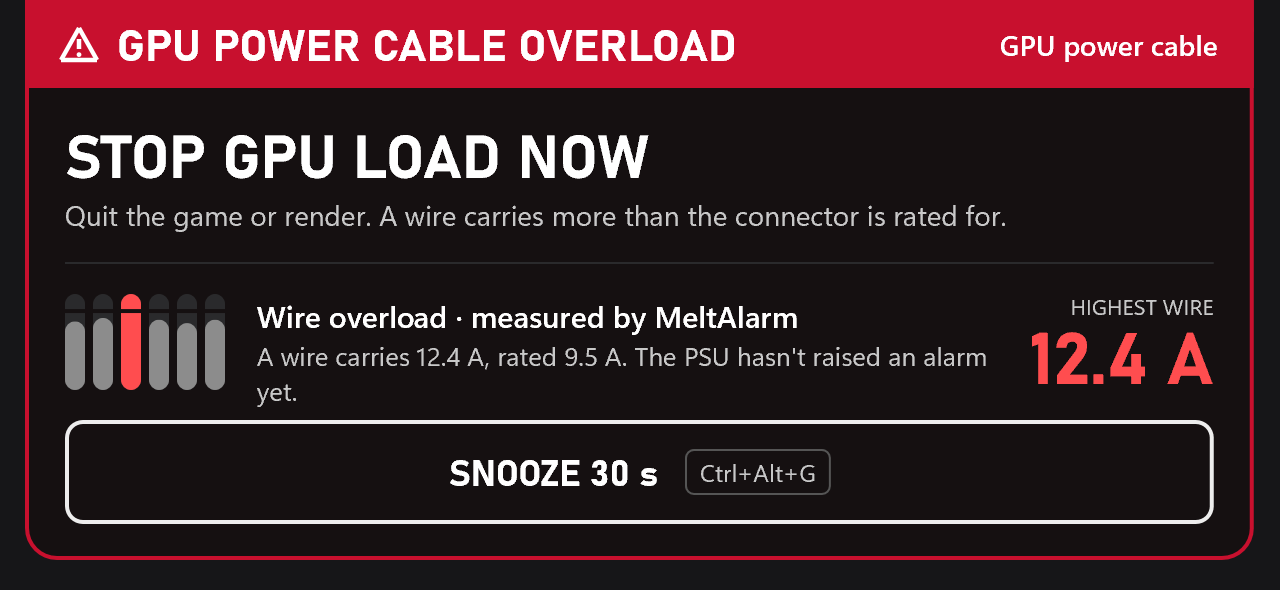
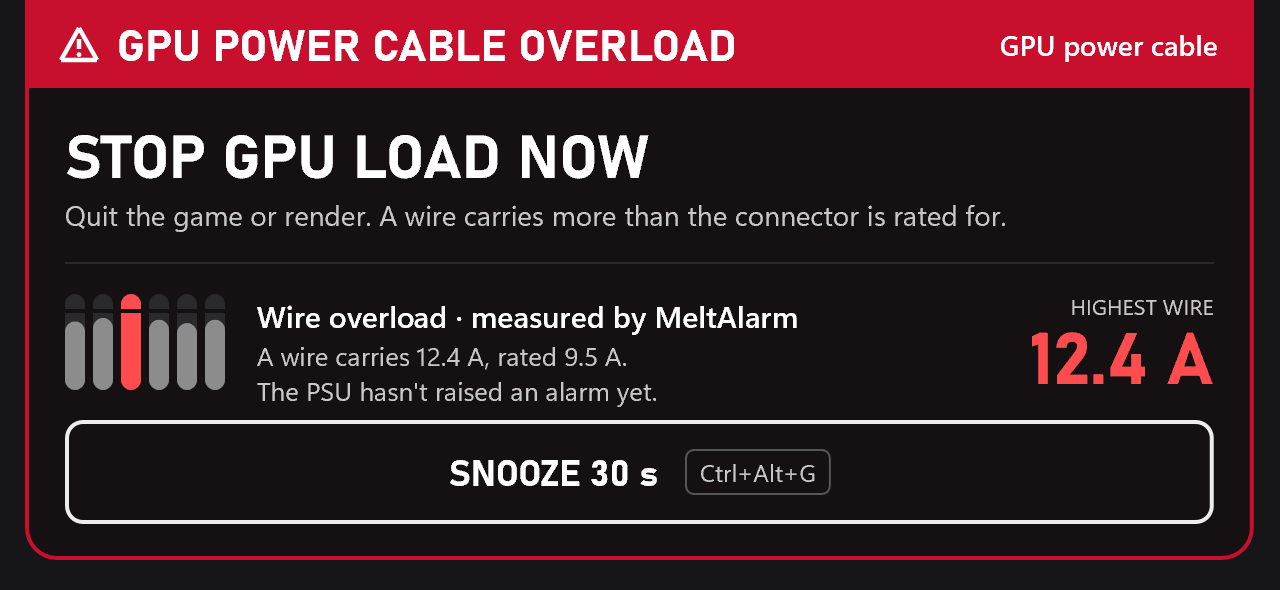
Notch: one fact per line, no orphan words (0.3.6)
"The PSU hasn't raised an alarm yet." wrapped its last word onto a line
of its own. Rewording only moves an orphan to another notch width, so
the numbers now take at most two lines, one fact per line, composed by
core (both judges: the PSU's limit line, then ours).

The critical variant clipped its what-line: "ANY SECOND" at 36 pt took
the text column's room. The right block is now capped at 140 DIP (a word
value shrinks to fit) and the critical what-line only says who reports
it; the band already names the status. Checked on screen (overload, PSU
imbalance, critical) and by arithmetic for the narrowest notch.

The README is removed, to be rethought from scratch.

Changed region(s): [[0.5, 0.5797, 0.7812, 0.6407], [0.1875, 0.6407, 0.5, 0.7017]]

diff --git a/crates/core/src/alarm.rs b/crates/core/src/alarm.rs
@@ -127,7 +127,8 @@ impl Core {
                 let c = self.conns.first()?;
                 let mut v = self.alarm_for(c, now, true);
                 v.what = "Current imbalance · sample data".into();
-                v.numbers = "Lowest wire 2.1 A, the others 9.7–9.9 A. Imbalance 7.8 A.".into();
+                v.numbers = "Lowest wire 2.1 A, the others 9.7–9.9 A.
+Imbalance 7.8 A.".into();
                 v.bars = test_bars();
                 v.right_label = "POWER CUT IN".into();
                 v.right_value = "~3:00".into();
@@ -186,32 +187,46 @@ impl Core {
             (o.peak.0, a)
         });
         let our_line = ours.map(|(_, a)| format!("A wire carries {}, rated {}.", amps(a), amps(l.rating)));
-        let psu_numbers = |s: DeviceStatus| -> String {
+        // The notch has two lines for the numbers, one fact per line (DESIGN.md "Alarm overlay"): a
+        // sentence never wraps into the other, at any notch width. The PSU's limit comes last.
+        let psu_lines = |s: DeviceStatus| -> Vec<String> {
             if s == DeviceStatus::CriticalOverCurrent {
                 let (_, a) = c.eval.max.unwrap_or((0, 0.0));
-                let hard = p.and_then(|p| p.hard_wire_limit).map(|l| format!(" Hard PSU limit {}.", trim(l))).unwrap_or_default();
-                format!("Highest wire {}.{hard}", amps(a))
+                let mut v = vec![format!("Highest wire {}.", amps(a))];
+                v.extend(p.and_then(|p| p.hard_wire_limit).map(|l| format!("Hard PSU limit {}.", trim(l))));
+                v
             } else if s == DeviceStatus::Imbalance {
                 let (lo_i, lo) = c.eval.min.unwrap_or((0, 0.0));
                 let others: Vec<f32> = cv.wires.iter().enumerate().filter(|(i, _)| *i != lo_i).filter_map(|(_, w)| w.amps).collect();
                 let (omin, omax) = others.iter().fold((f32::MAX, f32::MIN), |(a, b), &x| (a.min(x), b.max(x)));
                 let limit = p.and_then(|p| p.imbalance_limit).map(|l| format!(", PSU limit {}", amps(l))).unwrap_or_default();
+                let imbalance = format!("Imbalance {}{limit}.", amps(c.eval.imbalance.unwrap_or(0.0)));
                 if others.is_empty() {
-                    "Wire readings unavailable.".into()
+                    vec!["Wire readings unavailable.".into(), imbalance]
                 } else {
-                    format!("Lowest wire {}, the others {:.1}–{:.1} A. Imbalance {}{limit}.", amps(lo), omin, omax, amps(c.eval.imbalance.unwrap_or(0.0)))
+                    vec![format!("Lowest wire {}, the others {:.1}–{:.1} A.", amps(lo), omin, omax), imbalance]
                 }
             } else {
                 let (_, a) = c.eval.max.unwrap_or((0, 0.0));
                 let limit = p.and_then(|p| p.wire_limit).map(|l| format!(", PSU limit {}", amps(l))).unwrap_or_default();
-                format!("Highest wire {}{limit}.", amps(a))
+                vec![format!("Highest wire {}{limit}.", amps(a))]
             }
         };
         let source_word = if data_lost { "last PSU report" } else { "reported by the PSU" };
+        // The band already names a critical status; its line only says who reports it.
+        let what_of = |s: DeviceStatus| match s {
+            DeviceStatus::CriticalOverCurrent if data_lost => "Last PSU report".to_owned(),
+            DeviceStatus::CriticalOverCurrent => "Reported by the PSU".to_owned(),
+            _ => format!("{} · {source_word}", status_name(s)),
+        };
         let (what, numbers) = match (status, &our_line) {
-            (Some(s), Some(ours)) => (format!("{} · {source_word}", status_name(s)), format!("{} {ours}", psu_numbers(s))),
-            (Some(s), None) => (format!("{} · {source_word}", status_name(s)), psu_numbers(s)),
-            (None, Some(ours)) => ("Wire overload · measured by MeltAlarm".to_owned(), format!("{ours} The PSU hasn't raised an alarm yet.")),
+            // Both judges: the PSU's limit line, then ours.
+            (Some(s), Some(ours)) => (what_of(s), format!("{}
+{ours}", psu_lines(s).pop().unwrap_or_default())),
+            (Some(s), None) => (what_of(s), psu_lines(s).join("
+")),
+            (None, Some(ours)) => ("Wire overload · measured by MeltAlarm".to_owned(), format!("{ours}
+The PSU hasn't raised an alarm yet.")),
             (None, None) => (String::new(), String::new()),
         };
         let (right_label, right_value) = if critical {

diff --git a/crates/win/src/overlay.rs b/crates/win/src/overlay.rs
@@ -76,6 +76,8 @@ impl Overlay {
 }
 
 const BAND: f32 = 44.0;
+/// The widest the right-hand block (countdown, highest wire) may get, in DIP.
+const RIGHT_MAX: f32 = 140.0;
 
 fn height(gfx: &Gfx, a: &AlarmView, w: f32) -> f32 {
     let mut h = BAND + 16.0 + 34.0 + 3.0 + 20.0 + 14.0 + 1.0 + 14.0 + 50.0 + 18.0;
@@ -143,7 +145,11 @@ fn draw(p: &Painter, a: &AlarmView, w: f32, h: f32, hovered: bool, hint: bool) -
         let bx = x + i as f32 * 14.0;
         draw_cut_bar(p, bx, y + 1.0, 10.0, 48.0, wv.amps, a.bar_limit, a.bar_rating, (0x2A2A2C, 1.0), c, 1.0, 0x8C8C8C);
     }
-    let right_w = p.gfx().text_width(&a.right_value, num(36.0, 700)).max(p.gfx().text_width(&a.right_label, ui(11.0, 400)) + 10.0) + 4.0;
+    // The right block takes at most RIGHT_MAX; a word value ("ANY SECOND") shrinks to fit, so the
+    // text column keeps room for its lines even on the narrowest notch.
+    let full = p.gfx().text_width(&a.right_value, num(36.0, 700));
+    let value_font = num((36.0 * (RIGHT_MAX - 4.0) / full.max(1.0)).clamp(20.0, 36.0), 700);
+    let right_w = p.gfx().text_width(&a.right_value, value_font).max(p.gfx().text_width(&a.right_label, ui(11.0, 400)) + 10.0) + 4.0;
     let tx = x + 6.0 * 14.0 + 12.0;
     let tw = iw - (tx - x) - right_w - 12.0;
     p.text(&a.what, ui(15.0, 600), tx, y + 2.0, tw, 20.0, 0xFFFFFF, 1.0, Align::Left);
@@ -151,7 +157,7 @@ fn draw(p: &Painter, a: &AlarmView, w: f32, h: f32, hovered: bool, hint: bool) -
     let rx = x + iw - right_w;
     p.text(&a.right_label, ui(11.0, 400), rx, y, right_w, 14.0, 0xC8C8C8, 1.0, Align::Right);
     let rc = if a.green { 0xFFFFFF } else { WARNING_DARK };
-    p.text(&a.right_value, num(36.0, 700), rx, y + 12.0, right_w, 40.0, rc, 1.0, Align::Right);
+    p.text(&a.right_value, value_font, rx, y + 12.0, right_w, 40.0, rc, 1.0, Align::Right);
     y += 50.0 + 14.0;
 
     if let Some(note) = &a.note {

diff --git a/crates/core/src/tests.rs b/crates/core/src/tests.rs
@@ -168,7 +168,8 @@ fn device_alarm_raises_overlay_audio_countdown_note_and_logs() {
     assert_eq!(a.headline, "GPU POWER CABLE OVERLOAD");
     assert_eq!(a.what, "Current imbalance · reported by the PSU");
     assert_eq!((a.right_label.as_str(), a.right_value.as_str()), ("POWER CUT IN", "~3:00"));
-    assert!(a.numbers.starts_with("Lowest wire 2.1 A, the others 9.7–9.9 A. Imbalance 7.8 A"), "{}", a.numbers);
+    assert_eq!(a.numbers, "Lowest wire 2.1 A, the others 9.7–9.9 A.
+Imbalance 7.8 A, PSU limit 5.5 A.");
     assert_eq!(a.connector, "GPU power cable");
     let audio = v.audio.expect("sound");
     assert!(matches!(audio.steps.last(), Some(AudioStep::Speak(t)) if t == "Warning. GPU power cable overload. Stop the game now."));
@@ -197,7 +198,8 @@ fn our_overload_alarms_without_the_psu_and_says_so() {
     let v = h.view();
     let a = v.alarm.expect("MeltAlarm's own alarm");
     assert_eq!(a.what, "Wire overload · measured by MeltAlarm");
-    assert_eq!(a.numbers, "A wire carries 12.6 A, rated 9.5 A. The PSU hasn't raised an alarm yet.");
+    assert_eq!(a.numbers, "A wire carries 12.6 A, rated 9.5 A.
+The PSU hasn't raised an alarm yet.");
     assert_eq!((a.right_label.as_str(), a.right_value.as_str()), ("HIGHEST WIRE", "12.6 A"));
     assert!(v.audio.is_some());
     let c = &v.connectors[0];
@@ -236,7 +238,8 @@ fn the_psu_joining_our_overload_escalates_a_snooze() {
     h.tick(pin1(16.0), [1, 0]);
     let a = h.view().alarm.expect("a new cause cancels the snooze");
     assert_eq!(a.what, "Over-current · reported by the PSU");
-    assert_eq!(a.numbers, "Highest wire 16.0 A, PSU limit 12.0 A. A wire carries 16.0 A, rated 9.5 A.");
+    assert_eq!(a.numbers, "Highest wire 16.0 A, PSU limit 12.0 A.
+A wire carries 16.0 A, rated 9.5 A.", "both judges: one fact per line");
 }
 
 #[test]

diff --git a/docs/FUNCTIONAL_SPEC.md b/docs/FUNCTIONAL_SPEC.md
@@ -1,6 +1,6 @@
 # MeltAlarm — Functional Specification
 
-**Status:** v2.8 · **Date:** 2026-10-01 · Companions: `DESIGN.md` (how it looks), `ARCHITECTURE.md` (how it is built) · Changes: §13
+**Status:** v2.9 · **Date:** 2026-10-01 · Companions: `DESIGN.md` (how it looks), `ARCHITECTURE.md` (how it is built) · Changes: §13
 
 **Supported hardware:**
 - MSI **MPG Ai1300TS** and **MPG Ai1600TS** PSUs, connected by USB.
@@ -499,9 +499,11 @@ Each (connector, cause) pair is tracked separately. The alarm lasts while any pa
 
      | Cause | What | Right-hand block |
      |---|---|---|
-     | MeltAlarm's overload | `Wire overload · measured by MeltAlarm`; `A wire carries 12.4 A, rated 9.5 A. The PSU hasn't raised an alarm yet.` | `HIGHEST WIRE` · `12.4 A` |
-     | the PSU's status | `Current imbalance · reported by the PSU`; the currents (`Lowest wire 2.1 A, the others 9.7–9.9 A. Imbalance 7.8 A, PSU limit 5.5 A.`) | `POWER CUT IN` · `~2:47` (§8.4), or `ANY SECOND` for status 3 |
-     | both on one cable | the PSU's line, then our wire line | the PSU's block |
+     | MeltAlarm's overload | `Wire overload · measured by MeltAlarm`; `A wire carries 12.4 A, rated 9.5 A.` / `The PSU hasn't raised an alarm yet.` | `HIGHEST WIRE` · `12.4 A` |
+     | the PSU's status | `Current imbalance · reported by the PSU`; the currents (`Lowest wire 2.1 A, the others 9.7–9.9 A.` / `Imbalance 7.8 A, PSU limit 5.5 A.`) | `POWER CUT IN` · `~2:47` (§8.4), or `ANY SECOND` for status 3 |
+     | both on one cable | the PSU's limit line, then our wire line | the PSU's block |
+
+     The numbers take at most two lines, one fact per line (`/` above), so no sentence wraps into the next at any notch width.
 
      The band names the cable (§7.0); for two cables in alarm, `GPU power cables 1 + 2`.
 
@@ -704,6 +706,7 @@ During a game Windows holds notifications back silently and shows them in the no
 
 | Version | Date | Changes |
 |---|---|---|
+| 2.9 | 2026-10-01 | The notch's numbers: at most two lines, one fact per line (§8.2) |
 | 2.8 | 2026-10-01 | Uninstall has one entry point, Installed apps; no *Uninstall…* in the menu or Settings (§4.7) |
 | 2.7 | 2026-10-01 | `Not connected` is a state on every surface: a cable without current is never `OK` (§6.7, §7.1); the short name `Cable 2` where space is tight (§7.0) |
 | 2.6 | 2026-10-01 | Clean-up: log examples match the real log lines, the PSU's protection is named by the source (§6.9), the full hidapi deny-list (§3), notch height, the update refusal text |

diff --git a/docs/DESIGN.md b/docs/DESIGN.md
@@ -131,8 +131,8 @@ Footer: *Open log folder* and the version.
 - Action: **STOP GPU LOAD NOW** plus one explanatory line.
 - Detail row:
   - small cut bars (10 × 48 px)
-  - what the PSU reported, with numbers
-  - a right-hand block: the countdown, "ANY SECOND" for status 3, or the alarm duration once cleared
+  - what happened and who says so, then the numbers: at most two lines, **one fact per line**, so a sentence never wraps into the next (no orphan words) at any notch width
+  - a right-hand block: the countdown, "ANY SECOND" for status 3, or the alarm duration once cleared. At most 140 DIP wide: a word value shrinks its font (36 → 20 pt) so the text column keeps room on the narrowest notch
 - Full-width **SNOOZE 30 s** button with the `Ctrl+Alt+G` hint.
 - Variants:
 
@@ -140,7 +140,7 @@ Footer: *Open log folder* and the version.
   |---|---|---|
   | MeltAlarm overload | red | right block `HIGHEST WIRE` / `12.4 A` instead of the countdown |
   | PSU status | red | right block: the PSU's countdown |
-  | critical (status 3) | red | "POWER CUT: ANY SECOND" instead of the countdown |
+  | critical (status 3) | red | "POWER CUT: ANY SECOND" instead of the countdown; the band names the status, so the what-line only says "Reported by the PSU" |
   | data lost | red | details dimmed, plus the note "cannot confirm" |
   | cleared | green | "Load back to normal", the advice to inspect the cable, alarm duration, 5 s progress bar, no button |
   | test | red | TEST chip in the band |
@@ -175,6 +175,7 @@ One soft bell-like chime, **synthesized by MeltAlarm** so it doesn't depend on t
 
 | Date | Changes |
 |---|---|
+| 2026-10-01 | Notch numbers one fact per line (no orphan words) |
 | 2026-10-01 | `Not connected` chip; Compact 250 wide with the short name `Cable 2` |
 | 2026-10-01 | Clean-up: the app icon that ships, motion marked as not built, rendering stack as built |
 | 2026-10-01 | Cut bars, names ("GPU power cable"), imbalance; no wire numbers or total |
